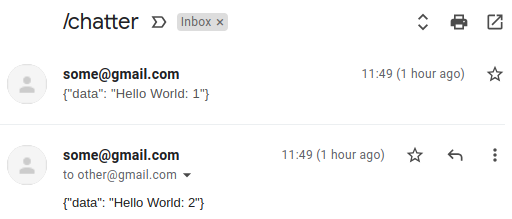
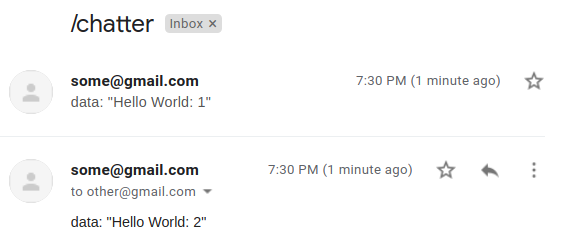
Switch to block style, non-double quoted YAML by default (#271)

diff --git a/rmw_email_cpp/test/test_conversion.cpp b/rmw_email_cpp/test/test_conversion.cpp
@@ -49,6 +49,22 @@
 #include "rosidl_runtime_c/string_functions.h"
 #include "rosidl_runtime_c/u16string_functions.h"
 
+std::string yaml_to_string(
+  const YAML::Node & yaml,
+  const bool double_quoted = false,
+  const bool flow_style = false)
+{
+  YAML::Emitter emitter;
+  if (double_quoted) {
+    emitter << YAML::DoubleQuoted;
+  }
+  if (flow_style) {
+    emitter << YAML::Flow;
+  }
+  emitter << yaml;
+  return emitter.c_str();
+}
+
 template<typename BasicTypes>
 void populate_basic_types(BasicTypes * msg)
 {
@@ -476,9 +492,7 @@ TEST(TestConversion, test_msgs__BasicTypes_c)
   std::cout << yaml_msg << std::endl << std::endl;
 
   // Convert the YAML representation to a string
-  YAML::Emitter emitter;
-  emitter << YAML::DoubleQuoted << YAML::Flow << yaml_msg;
-  const std::string yaml_string(emitter.c_str());
+  const std::string yaml_string = yaml_to_string(yaml_msg);
   std::cout << "YAML:" << std::endl;
   std::cout << yaml_string << std::endl << std::endl;
 
@@ -506,9 +520,7 @@ TEST(TestConversion, test_msgs__BasicTypes_cpp)
   std::cout << yaml_msg << std::endl << std::endl;
 
   // Convert the YAML representation to a string
-  YAML::Emitter emitter;
-  emitter << YAML::DoubleQuoted << YAML::Flow << yaml_msg;
-  const std::string yaml_string(emitter.c_str());
+  const std::string yaml_string = yaml_to_string(yaml_msg);
   std::cout << "YAML:" << std::endl;
   std::cout << yaml_string << std::endl << std::endl;
 
@@ -536,9 +548,7 @@ TEST(TestConversion, test_msgs__UnboundedSequences_c)
   std::cout << yaml_msg << std::endl << std::endl;
 
   // Convert the YAML representation to a string
-  YAML::Emitter emitter;
-  emitter << YAML::DoubleQuoted << YAML::Flow << yaml_msg;
-  const std::string yaml_string(emitter.c_str());
+  const std::string yaml_string = yaml_to_string(yaml_msg);
   std::cout << "YAML:" << std::endl;
   std::cout << yaml_string << std::endl << std::endl;
 
@@ -568,9 +578,7 @@ TEST(TestConversion, test_msgs__UnboundedSequences_cpp)
   std::cout << yaml_msg << std::endl << std::endl;
 
   // Convert the YAML representation to a string
-  YAML::Emitter emitter;
-  emitter << YAML::DoubleQuoted << YAML::Flow << yaml_msg;
-  const std::string yaml_string(emitter.c_str());
+  const std::string yaml_string = yaml_to_string(yaml_msg);
   std::cout << "YAML:" << std::endl;
   std::cout << yaml_string << std::endl << std::endl;
 
@@ -598,9 +606,7 @@ TEST(TestConversion, test_msgs__Nested_c)
   std::cout << yaml_msg << std::endl << std::endl;
 
   // Convert the YAML representation to a string
-  YAML::Emitter emitter;
-  emitter << YAML::DoubleQuoted << YAML::Flow << yaml_msg;
-  const std::string yaml_string(emitter.c_str());
+  const std::string yaml_string = yaml_to_string(yaml_msg);
   std::cout << "YAML:" << std::endl;
   std::cout << yaml_string << std::endl << std::endl;
 
@@ -628,9 +634,7 @@ TEST(TestConversion, test_msgs__Nested_cpp)
   std::cout << yaml_msg << std::endl << std::endl;
 
   // Convert the YAML representation to a string
-  YAML::Emitter emitter;
-  emitter << YAML::DoubleQuoted << YAML::Flow << yaml_msg;
-  const std::string yaml_string(emitter.c_str());
+  const std::string yaml_string = yaml_to_string(yaml_msg);
   std::cout << "YAML:" << std::endl;
   std::cout << yaml_string << std::endl << std::endl;
 
@@ -658,9 +662,7 @@ TEST(TestConversion, test_msgs__Arrays_c)
   std::cout << yaml_msg << std::endl << std::endl;
 
   // Convert the YAML representation to a string
-  YAML::Emitter emitter;
-  emitter << YAML::DoubleQuoted << YAML::Flow << yaml_msg;
-  const std::string yaml_string(emitter.c_str());
+  const std::string yaml_string = yaml_to_string(yaml_msg);
   std::cout << "YAML:" << std::endl;
   std::cout << yaml_string << std::endl << std::endl;
 
@@ -689,9 +691,7 @@ TEST(TestConversion, test_msgs__Arrays_cpp)
   std::cout << yaml_msg << std::endl << std::endl;
 
   // Convert the YAML representation to a string
-  YAML::Emitter emitter;
-  emitter << YAML::DoubleQuoted << YAML::Flow << yaml_msg;
-  const std::string yaml_string(emitter.c_str());
+  const std::string yaml_string = yaml_to_string(yaml_msg);
   std::cout << "YAML:" << std::endl;
   std::cout << yaml_string << std::endl << std::endl;
 
@@ -719,12 +719,10 @@ TEST(TestConversion, std_msgs__String_c)
   std::cout << yaml_msg << std::endl << std::endl;
 
   // Convert the YAML representation to a string
-  YAML::Emitter emitter;
-  emitter << YAML::DoubleQuoted << YAML::Flow << yaml_msg;
-  const std::string yaml_string(emitter.c_str());
+  const std::string yaml_string = yaml_to_string(yaml_msg);
   std::cout << "YAML:" << std::endl;
   std::cout << yaml_string << std::endl << std::endl;
-  EXPECT_STREQ(yaml_string.c_str(), "{\"data\": \"hello world\"}");
+  EXPECT_STREQ(yaml_string.c_str(), "data: hello world");
 
   // Convert YAML string back to a ROS message
   RosMessage ros_msg_from_yaml = dynmsg::c::yaml_to_rosmsg(interface, yaml_string);
@@ -751,12 +749,11 @@ TEST(TestConversion, std_msgs__String_cpp)
   std::cout << yaml_msg << std::endl << std::endl;
 
   // Convert the YAML representation to a string
-  YAML::Emitter emitter;
-  emitter << YAML::DoubleQuoted << YAML::Flow << yaml_msg;
-  const std::string yaml_string(emitter.c_str());
+  const std::string yaml_string = yaml_to_string(yaml_msg);
   std::cout << "YAML:" << std::endl;
   std::cout << yaml_string << std::endl << std::endl;
-  EXPECT_STREQ(yaml_string.c_str(), "{\"data\": \"hello world\"}");
+  EXPECT_STREQ(
+    yaml_string.c_str(), "data: hello world");
 
   // Convert YAML string back to a ROS message
   std_msgs::msg::String msg_from_yaml;
@@ -784,17 +781,18 @@ TEST(TestConversion, std_msgs__Header_c)
   std::cout << yaml_msg << std::endl << std::endl;
 
   // Convert the YAML representation to a string
-  YAML::Emitter emitter;
-  emitter << YAML::DoubleQuoted << YAML::Flow << yaml_msg;
-  const std::string yaml_string(emitter.c_str());
+  const std::string yaml_string = yaml_to_string(yaml_msg);
   std::cout << "YAML:" << std::endl;
   std::cout << yaml_string << std::endl << std::endl;
   EXPECT_STREQ(
-    yaml_string.c_str(),
-    "{\"stamp\": {\"sec\": \"4\", \"nanosec\": \"20\"}, \"frame_id\": \"my_frame\"}");
+    yaml_string.c_str(), 1 + R"(
+stamp:
+  sec: 4
+  nanosec: 20
+frame_id: my_frame)");
 
   // Convert YAML string back to a ROS message
-  RosMessage ros_msg_from_yaml = dynmsg::c::yaml_to_rosmsg(interface, emitter.c_str());
+  RosMessage ros_msg_from_yaml = dynmsg::c::yaml_to_rosmsg(interface, yaml_string);
   auto msg_from_yaml = reinterpret_cast<std_msgs__msg__Header *>(ros_msg_from_yaml.data);
 
   EXPECT_EQ(msg_from_yaml->stamp.sec, 4);
@@ -824,14 +822,15 @@ TEST(TestConversion, std_msgs__Header_cpp)
   std::cout << yaml_msg << std::endl << std::endl;
 
   // Convert the YAML representation to a string
-  YAML::Emitter emitter;
-  emitter << YAML::DoubleQuoted << YAML::Flow << yaml_msg;
-  const std::string yaml_string(emitter.c_str());
+  const std::string yaml_string = yaml_to_string(yaml_msg);
   std::cout << "YAML:" << std::endl;
   std::cout << yaml_string << std::endl << std::endl;
   EXPECT_STREQ(
-    yaml_string.c_str(),
-    "{\"stamp\": {\"sec\": \"4\", \"nanosec\": \"20\"}, \"frame_id\": \"my_frame\"}");
+    yaml_string.c_str(), 1 + R"(
+stamp:
+  sec: 4
+  nanosec: 20
+frame_id: my_frame)");
 
   // Convert YAML string back to a ROS message
   std_msgs::msg::Header msg_from_yaml;
@@ -876,9 +875,7 @@ TEST(TestConversion, rcl_interfaces__ParameterEvent_c)
   std::cout << yaml_msg << std::endl << std::endl;
 
   // Convert the YAML representation to a string
-  YAML::Emitter emitter;
-  emitter << YAML::DoubleQuoted << YAML::Flow << yaml_msg;
-  const std::string yaml_string(emitter.c_str());
+  const std::string yaml_string = yaml_to_string(yaml_msg);
   std::cout << "YAML:" << std::endl;
   std::cout << yaml_string << std::endl << std::endl;
 
@@ -935,9 +932,7 @@ TEST(TestConversion, rcl_interfaces__ParameterEvent_cpp)
   std::cout << yaml_msg << std::endl << std::endl;
 
   // Convert the YAML representation to a string
-  YAML::Emitter emitter;
-  emitter << YAML::DoubleQuoted << YAML::Flow << yaml_msg;
-  const std::string yaml_string(emitter.c_str());
+  const std::string yaml_string = yaml_to_string(yaml_msg);
   std::cout << "YAML:" << std::endl;
   std::cout << yaml_string << std::endl << std::endl;
 

diff --git a/email/test/test_utils_response.cpp b/email/test/test_utils_response.cpp
@@ -53,7 +53,7 @@ TEST(TestResponseUtils, get_email_data_from_response) {
     "this is the email's body\r\n";
   data_opt = email::utils::response::get_email_data_from_response(response);
   ASSERT_TRUE(data_opt.has_value());
-  auto data = data_opt.value();
+  email::EmailData data = data_opt.value();
   EXPECT_EQ(data.message_id, "<some.id@mx.google.com>");
   EXPECT_EQ(data.in_reply_to, "");
   EXPECT_EQ(data.from, "some@email.com");
@@ -142,6 +142,68 @@ TEST(TestResponseUtils, get_email_data_from_response) {
     "this is the email's body\r\n";
   data_opt = email::utils::response::get_email_data_from_response(response_missing_all_recipients);
   EXPECT_FALSE(data_opt.has_value());
+
+  // Multi-line body
+  const std::string response_multiline_body = \
+    "Message-ID: <some.id@mx.google.com>\r\n" \
+    "Date: Sat, 17 Oct 2020 11:06:37 -0700 (PDT)\r\n" \
+    "From: some@email.com\r\n" \
+    "Sequence-ID: 123\r\n" \
+    "In-Reply-To: \r\nReferences: \r\n" \
+    "To: my@email.com\r\n" \
+    "Cc: \r\n" \
+    "Bcc: \r\n" \
+    "Subject: this is my awesome subject\r\n\r\n" \
+    "this is the\r\n" \
+    " email's \r\n" \
+    "body\r\n";
+  data_opt = email::utils::response::get_email_data_from_response(response_multiline_body);
+  ASSERT_TRUE(data_opt.has_value());
+  data = data_opt.value();
+  EXPECT_EQ(data.content.subject, "this is my awesome subject");
+  EXPECT_EQ(data.content.body, "this is the\r\n email's \r\nbody");
+
+  // Multi-line body without CR
+  // (although RFC 5322 says that CR & LF should always go together as CRLF)
+  const std::string response_multiline_body_nocr = \
+    "Message-ID: <some.id@mx.google.com>\r\n" \
+    "Date: Sat, 17 Oct 2020 11:06:37 -0700 (PDT)\r\n" \
+    "From: some@email.com\r\n" \
+    "Sequence-ID: 123\r\n" \
+    "In-Reply-To: \r\nReferences: \r\n" \
+    "To: my@email.com\r\n" \
+    "Cc: \r\n" \
+    "Bcc: \r\n" \
+    "Subject: this is my awesome subject\r\n\r\n" \
+    "this is the\n" \
+    " email's \n" \
+    "body\n";
+  data_opt = email::utils::response::get_email_data_from_response(response_multiline_body_nocr);
+  ASSERT_TRUE(data_opt.has_value());
+  data = data_opt.value();
+  EXPECT_EQ(data.content.subject, "this is my awesome subject");
+  EXPECT_EQ(data.content.body, "this is the\n email's \nbody");
+
+  // Multi-line body with trailing newline
+  const std::string response_multiline_body_trailing_crlf = \
+    "Message-ID: <some.id@mx.google.com>\r\n" \
+    "Date: Sat, 17 Oct 2020 11:06:37 -0700 (PDT)\r\n" \
+    "From: some@email.com\r\n" \
+    "Sequence-ID: 123\r\n" \
+    "In-Reply-To: \r\nReferences: \r\n" \
+    "To: my@email.com\r\n" \
+    "Cc: \r\n" \
+    "Bcc: \r\n" \
+    "Subject: this is my awesome subject\r\n\r\n" \
+    "this is the\r\n" \
+    " email's \r\n" \
+    "body\r\n\r\n";
+  data_opt = email::utils::response::get_email_data_from_response(
+    response_multiline_body_trailing_crlf);
+  ASSERT_TRUE(data_opt.has_value());
+  data = data_opt.value();
+  EXPECT_EQ(data.content.subject, "this is my awesome subject");
+  EXPECT_EQ(data.content.body, "this is the\r\n email's \r\nbody\r\n");
 }
 
 TEST(TestResponseUtils, get_header_value) {

diff --git a/email/src/email/response_utils.cpp b/email/src/email/response_utils.cpp
@@ -35,7 +35,13 @@ static constexpr auto HEADER_IN_REPLY_TO = "In-Reply-To";
 static constexpr auto HEADER_MESSAGE_ID = "Message-ID";
 static constexpr auto HEADER_SUBJECT = "Subject";
 static constexpr auto HEADER_TO = "To";
-static const std::regex REGEX_BODY(R"((?:\r?\n){2}((?:.*\n*)*)(?:\r?\n)?)");
+// Summary of RFC 5322:
+// CR and LF always go together as a pair (CRLF), although here we make the CR character optional.
+// The body is separated from the headers by an empty line, so there are two (CR)LF sequences.
+// We assume that there is a (CR)LF sequence after the body that isn't part of the body;
+// any additional (CR)LF sequence is assumed to be part of the body itself.
+// TODO(christophebedard) remove the above requirement/assumption?
+static const std::regex REGEX_BODY(R"((?:\r?\n){2}((?:.*(?:\r?\n)?)*)(?:\r?\n))");
 static const std::regex REGEX_HEADER(R"(([a-zA-Z\-]+): (.*)\r)");
 static const std::regex REGEX_NEXTUID(R"(OK \[UIDNEXT ([0-9]+)\] Predicted next UID)");
 

diff --git a/rmw_email_cpp/src/conversion.cpp b/rmw_email_cpp/src/conversion.cpp
@@ -36,11 +36,29 @@ namespace rmw_email_cpp
 namespace details
 {
 
-std::string yaml_to_string(const YAML::Node & yaml)
+/// Convert YAML node to string.
+/**
+ * Flow style is one-line, JSON-like.
+ * Non-flow style is block style, which is the normal multi-line style.
+ *
+ * \param yaml the YAML node
+ * \param double_quoted whether to double quote all keys and values or not
+ * \param flow_style whether to use flow-style or not
+ * \return the YAML node as a string
+ */
+std::string yaml_to_string(
+  const YAML::Node & yaml,
+  const bool double_quoted = false,
+  const bool flow_style = false)
 {
   YAML::Emitter emitter;
-  // Make the YAML a one-line
-  emitter << YAML::DoubleQuoted << YAML::Flow << yaml;
+  if (double_quoted) {
+    emitter << YAML::DoubleQuoted;
+  }
+  if (flow_style) {
+    emitter << YAML::Flow;
+  }
+  emitter << yaml;
   return emitter.c_str();
 }
 

diff --git a/email/src/email/payload_utils.cpp b/email/src/email/payload_utils.cpp
@@ -49,7 +49,10 @@ build_payload(
   }
   // Subjects containing newlines will have the second+ line(s) be moved to the body,
   // but for the sake of simplicity, we will cut it out. As for the body, curl
-  // seems to handle it correctly even if it contains "\n" instead of "\r\n"
+  // seems to handle it correctly even if it contains "\n" instead of "\r\n" even
+  // if RFC 5322 says that CR & LF characters should always go together as a pair,
+  // so we do not try to replace lone LF characters in the body with CRLF sequences.
+  // TODO(christophebedard) remove the CRLF sequence after the body?
   return utils::string_format(
     "%s"
     "In-Reply-To: %s\r\nReferences: %s\r\n"
